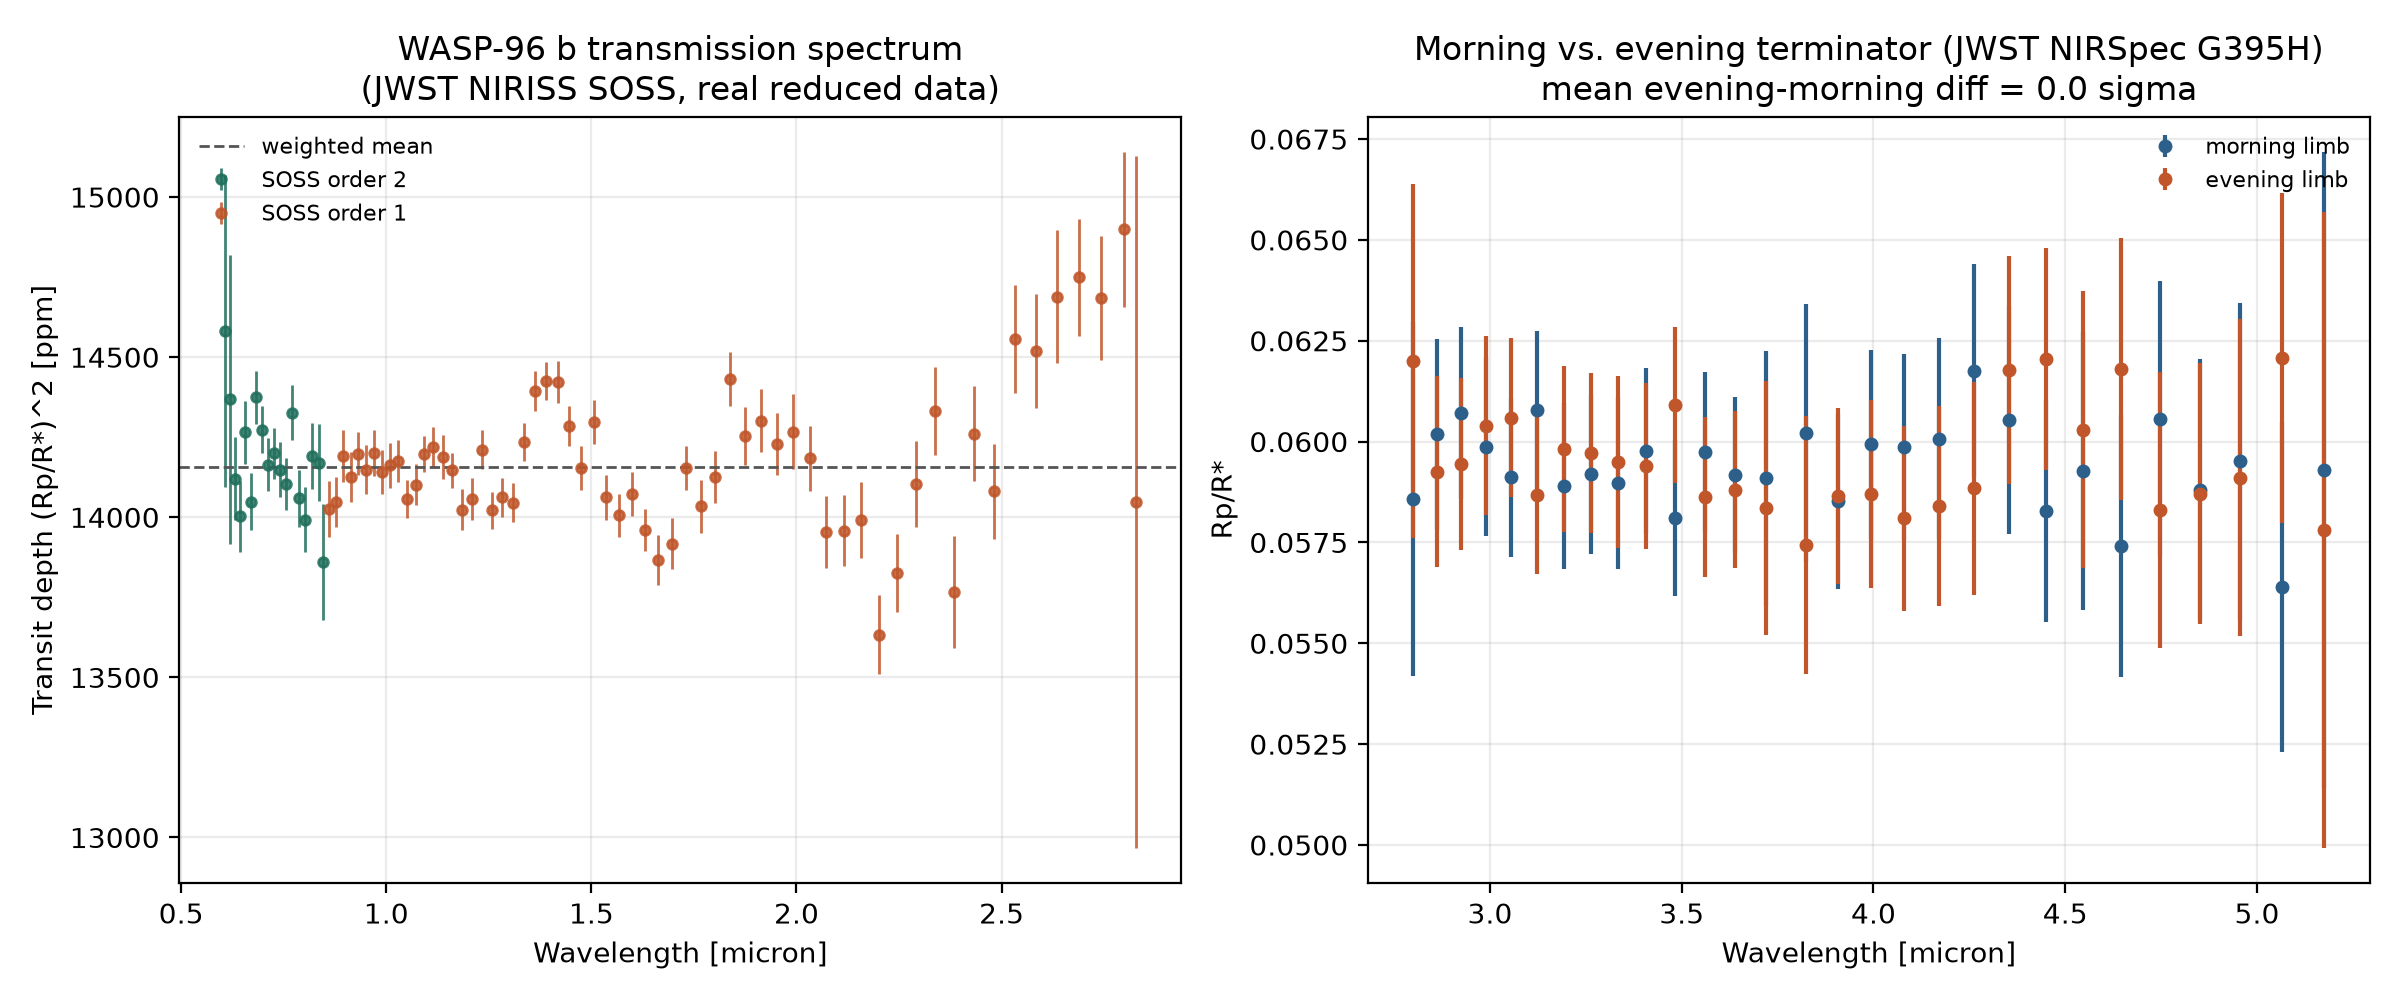
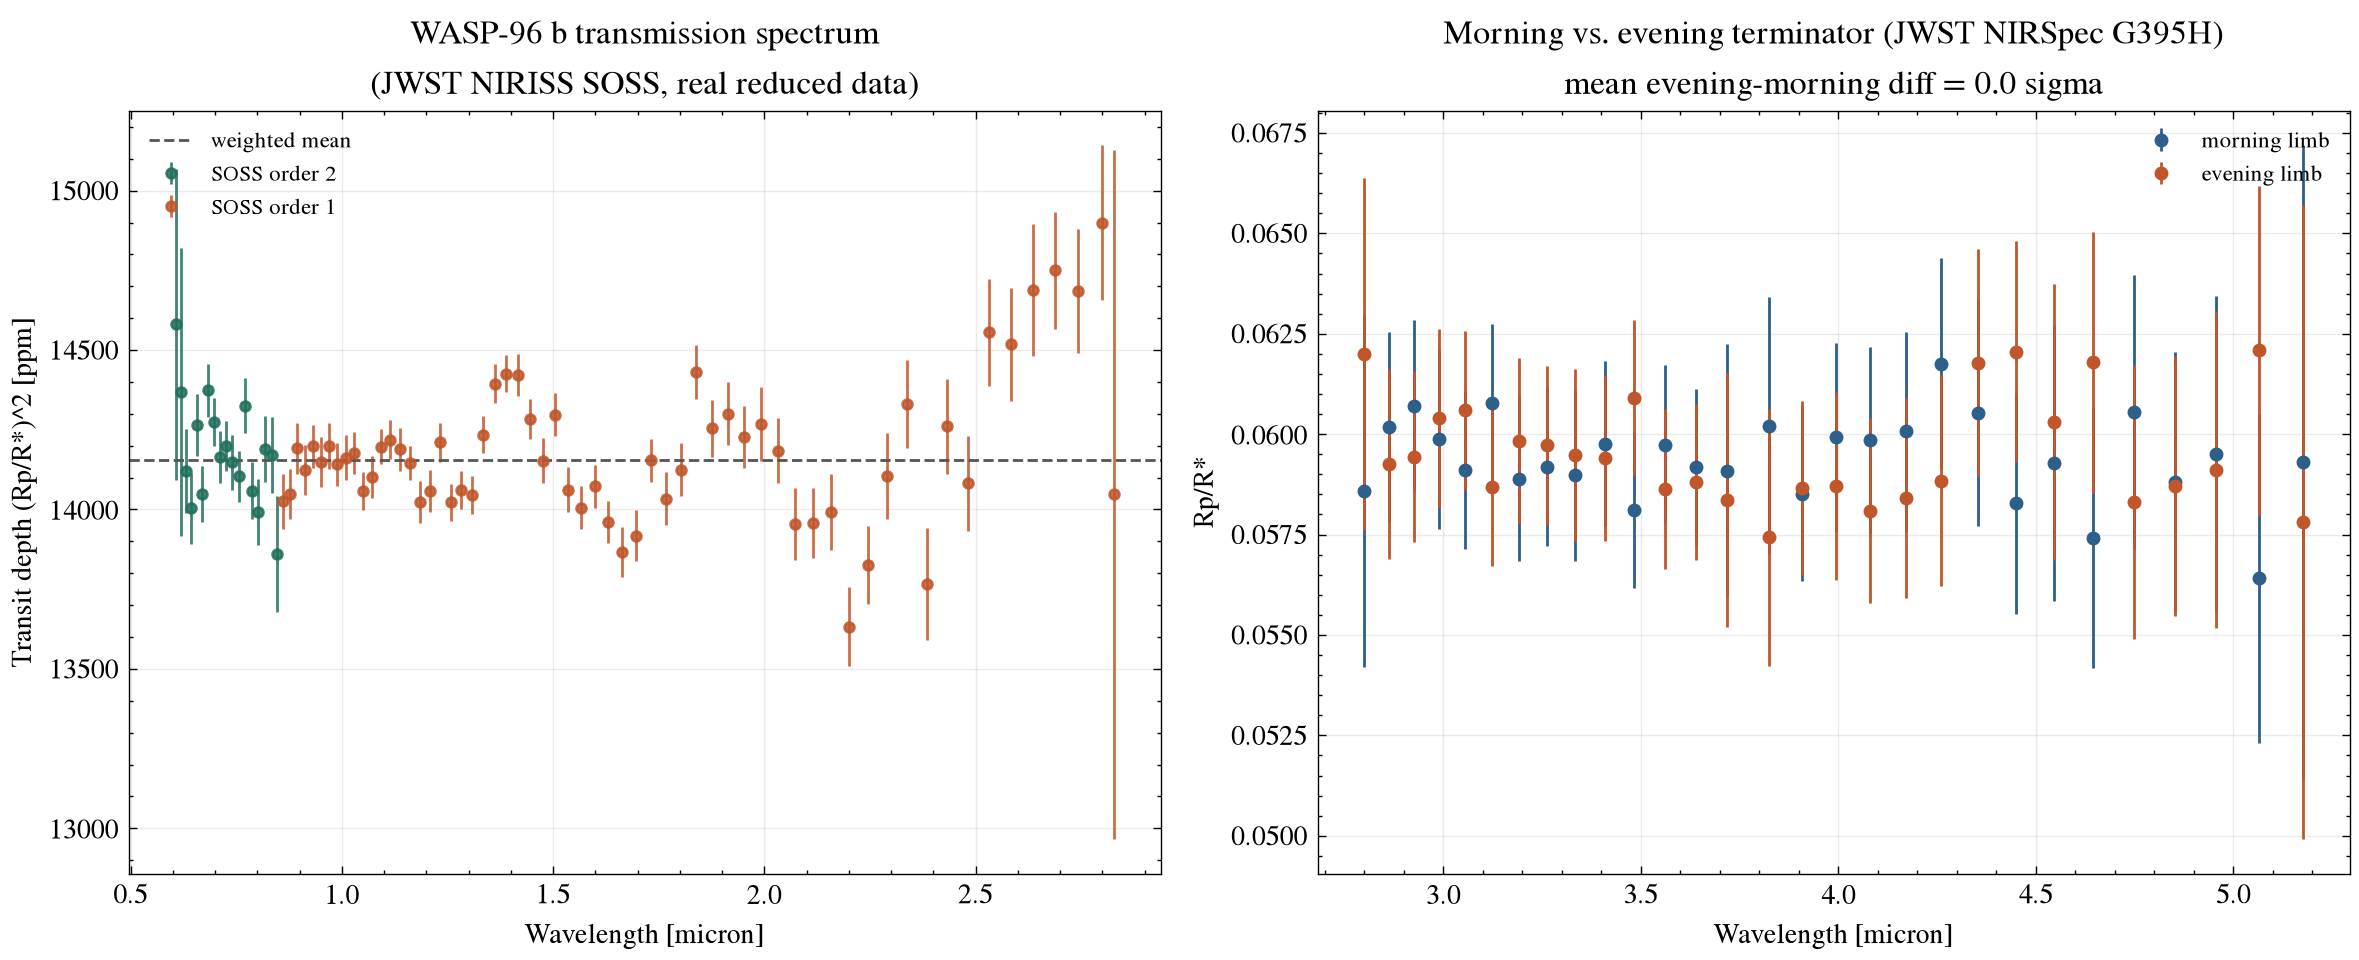
Apply scienceplots paper-style figure formatting
Uses the scienceplots 'science' + 'no-latex' matplotlib style for a
cleaner, publication-style look (serif-leaning fonts, inward ticks, minor
tick marks) without a LaTeX dependency. Regenerates the figure with
identical underlying data/statistics -- only the visual styling changed.

diff --git a/scripts/analyze_spectrum.py b/scripts/analyze_spectrum.py
@@ -23,7 +23,10 @@ import csv
 from pathlib import Path
 
 import matplotlib.pyplot as plt
+import scienceplots  # noqa: F401 (registers 'science' style)
 import numpy as np
+
+plt.style.use(["science", "no-latex"])
 
 DATA_DIR = Path(__file__).resolve().parents[1] / "data"
 FIG_DIR = Path(__file__).resolve().parents[1] / "figures"
